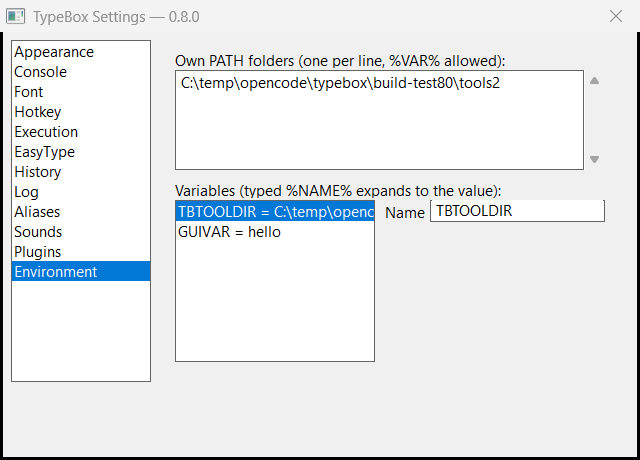
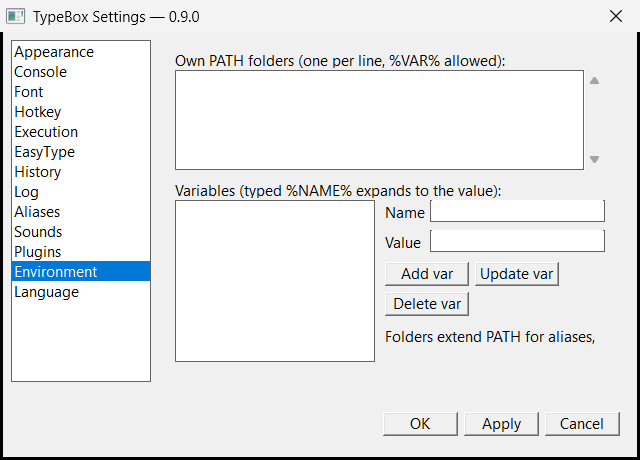
v0.9.0: Language page screenshots, full native-names list

diff --git a/src/main.cpp b/src/main.cpp
@@ -2230,8 +2230,8 @@ static void SettingsCreate(HWND mainWnd, int startPage) {
             L"Español · Português · Italiano · 中文 · 日本語 · 한국어 ·\n"
             L"العربية · Türkçe · Polski · Tiếng Việt · हिन्दी ·\n"
             L"Bahasa Indonesia · Kiswahili · Afrikaans · አማርኛ",
-            SS_LEFT, 16, 76, 430, 72);
-    MkLabel(g_setPage[PG_LANG], L(STR_LA_HINT), 16, 152, 430);
+            SS_LEFT, 16, 76, 430, 90);
+    MkLabel(g_setPage[PG_LANG], L(STR_LA_HINT), 16, 172, 430);
 
     MkButton(g_setWnd, L(STR_OK),     380, 380, 75);
     MkButton(g_setWnd, L(STR_APPLY),  461, 380, 75);

diff --git a/README.md b/README.md
@@ -24,6 +24,10 @@ One **portable folder** with an **INI file** you can carry on a USB stick, keep 
 |---|---|
 | ![al](docs/screenshots/settings-aliases.png) | ![p](docs/screenshots/settings-plugins.png) |
 
+| Settings → Language (20 UI languages) | The same page, Russian UI |
+|---|---|
+| ![lang](docs/screenshots/settings-language.png) | ![langru](docs/screenshots/settings-language-ru.png) |
+
 > ### Roots & inspiration
 > **TypeBox grows out of [TypeAndRun](https://github.com/galancev/typeandrun)** by Evgeniy Galantsev (2001–2004, GPL-3.0) — the **direct ancestor** whose idea, command/alias engine and INI config schema this project continues.
 > The UX and feature set draw inspiration from:
